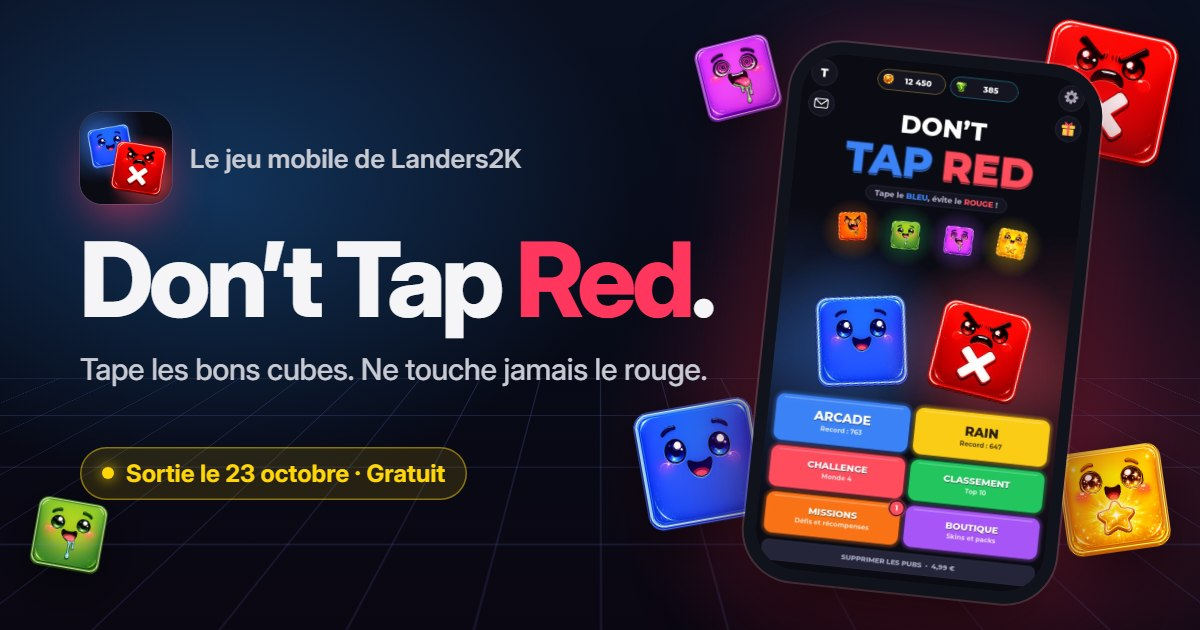
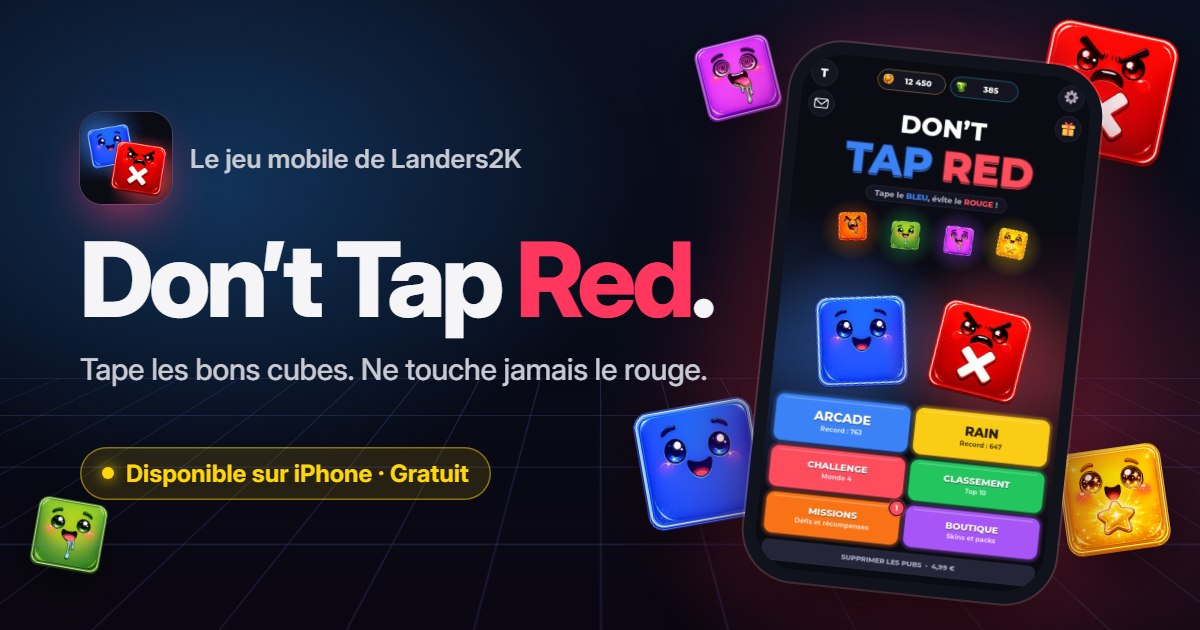
Don't Tap Red disponible sur iPhone : site, page du jeu, kit presse, images de partage et overlays à jour ; Android le 23 octobre (bouton Google Play grisé d'ici là) ; bandeau App Store de Safari

Changed region(s): [[0.0925, 0.6937, 0.4317, 0.8143]]

diff --git a/index.html b/index.html
@@ -9,6 +9,8 @@
   <link rel="icon" href="assets/favicon.svg" type="image/svg+xml">
   <link rel="apple-touch-icon" href="assets/apple-touch-icon.png">
   <link rel="manifest" href="site.webmanifest">
+  <!-- Bandeau « Ouvrir dans l’App Store » de Safari sur iPhone -->
+  <meta name="apple-itunes-app" content="app-id=6820198356">
   <meta name="apple-mobile-web-app-title" content="Landers2K">
   <!-- Aperçu quand le lien est partagé (Discord, X, WhatsApp…).
        Adresse officielle du site : https://www.landers2k.com/ -->
@@ -185,7 +187,7 @@
             <span class="link-txt"><b>Lootbar</b><small>Ma boutique Landers2K</small></span><span class="link-go" aria-hidden="true"></span></a></li>
           <li><a class="link-card" href="https://apps.apple.com/app/id6820198356" target="_blank" rel="noopener" style="--brand:#2997ff" data-tilt>
             <span class="link-ico"><img src="assets/img/dtr-icon.jpg" alt="" width="52" height="52"></span>
-            <span class="link-txt"><b>Don’t Tap Red · iPhone</b><small>Sortie le 23 octobre sur l’App Store</small></span><span class="link-go" aria-hidden="true"></span></a></li>
+            <span class="link-txt"><b>Don’t Tap Red · iPhone</b><small>Disponible sur l’App Store</small></span><span class="link-go" aria-hidden="true"></span></a></li>
           <li><a class="link-card" href="https://play.google.com/store/apps/details?id=com.landers2k.donttapred" target="_blank" rel="noopener" style="--brand:#30d158;--brand-ink:#000" data-tilt>
             <span class="link-ico"><img src="assets/img/dtr-icon.jpg" alt="" width="52" height="52"></span>
             <span class="link-txt"><b>Don’t Tap Red · Android</b><small>Sortie le 23 octobre sur Google Play</small></span><span class="link-go" aria-hidden="true"></span></a></li>
@@ -208,7 +210,7 @@
           <li class="fact" style="--brand:#2997ff"><b><span data-count="10">10</span>+ ans</b><span>de passion pour le gaming et le streaming</span></li>
           <li class="fact" style="--brand:#bf5af2"><b>Sept. 2025</b><span>le grand saut&nbsp;: le matériel et les ressources pour passer à la vitesse supérieure</span></li>
           <li class="fact" style="--brand:#ff375f"><b>3 univers</b><span>des vidéos, des lives et mes propres jeux vidéo</span></li>
-          <li class="fact" style="--brand:#30d158"><b>1<sup>er</sup> jeu</b><span>Don’t Tap Red, gratuit sur iOS et Android le 23 octobre</span></li>
+          <li class="fact" style="--brand:#30d158"><b>1<sup>er</sup> jeu</b><span>Don’t Tap Red, gratuit sur iPhone, et sur Android le 23 octobre</span></li>
         </ul>
         <div class="about-text">
           <p class="reveal">Passionné de gaming et de streaming depuis plus de <strong>10 ans</strong>, j’ai décidé de donner une nouvelle dimension à cette passion en <strong>septembre 2025</strong>, lorsque j’ai enfin pu investir dans le matériel et les ressources nécessaires pour concrétiser mes ambitions.</p>
@@ -380,13 +382,13 @@
           <div class="game-badge reveal">
             <img src="assets/img/dtr-icon.jpg" alt="" width="64" height="64">
             <span><b>Mon jeu mobile</b><small>Gratuit · iOS et Android</small></span>
-            <span class="release-pill" data-release><i aria-hidden="true"></i>Sortie le 23 octobre</span>
+            <span class="release-pill" data-release><i aria-hidden="true"></i>Disponible sur iPhone</span>
           </div>
           <h2 class="game-title" id="game-title" data-split>Don’t Tap Red.</h2>
           <p class="game-sub reveal">Un jeu de réflexes nerveux où chaque seconde compte. Les cubes bougent, accélèrent, se multiplient&nbsp;: garde ton sang-froid, enchaîne les bons cubes et surtout… ne touche jamais le rouge&nbsp;!</p>
           <!-- Compte à rebours jusqu'à la sortie, géré par script.js (caché sans JavaScript) -->
           <div class="countdown reveal" data-countdown>
-            <p class="cd-label">Sortie dans</p>
+            <p class="cd-label">Sortie sur Android dans</p>
             <div class="cd-units" role="timer" aria-label="Temps restant avant la sortie du jeu">
               <span class="cd-unit"><b data-cd="d">0</b><small>jours</small></span>
               <span class="cd-unit"><b data-cd="h">00</b><small>heures</small></span>
@@ -579,7 +581,7 @@
           <img src="assets/img/cube-red.webp" alt="" width="96" height="96">
         </div>
         <h2 class="section-title" id="dl-title" data-split>Prêt à relever le défi&nbsp;?</h2>
-        <p class="release-pill release-pill-lg reveal" data-release="countdown"><i aria-hidden="true"></i>Disponible le 23 octobre</p>
+        <p class="release-pill release-pill-lg reveal" data-release="countdown"><i aria-hidden="true"></i>Android le 23 octobre</p>
         <p class="download-sub reveal">Une seule règle&nbsp;: <span class="is-red">don’t tap red</span>. Gratuit sur iPhone et Android.</p>
         <div class="store-row reveal">
           <a class="store-btn store-btn-lg" href="https://apps.apple.com/app/id6820198356" target="_blank" rel="noopener" data-magnetic>

diff --git a/dont-tap-red/index.html b/dont-tap-red/index.html
@@ -10,6 +10,8 @@
   <link rel="icon" href="/assets/favicon.svg" type="image/svg+xml">
   <link rel="apple-touch-icon" href="/assets/apple-touch-icon.png">
   <link rel="manifest" href="/site.webmanifest">
+  <!-- Bandeau « Ouvrir dans l’App Store » de Safari sur iPhone -->
+  <meta name="apple-itunes-app" content="app-id=6820198356">
   <meta name="apple-mobile-web-app-title" content="Landers2K">
   <link rel="canonical" href="https://www.landers2k.com/dont-tap-red/">
   <link rel="alternate" hreflang="fr" href="https://www.landers2k.com/dont-tap-red/">
@@ -19,7 +21,7 @@
   <meta property="og:site_name" content="Landers2K">
   <meta property="og:locale" content="fr_FR">
   <meta property="og:url" content="https://www.landers2k.com/dont-tap-red/">
-  <meta property="og:title" content="Don’t Tap Red — sortie le 23 octobre">
+  <meta property="og:title" content="Don’t Tap Red — disponible sur iPhone">
   <meta property="og:description" content="Le jeu de réflexes gratuit de Landers2K sur iPhone et Android. Une seule règle : ne touche jamais le rouge.">
   <meta property="og:image" content="https://www.landers2k.com/assets/img/partage-dtr.jpg">
   <meta property="og:image:width" content="1200">
@@ -51,7 +53,7 @@
     "fr",
     "en"
   ],
-  "datePublished": "2026-10-23",
+  "datePublished": "2026-10-20",
   "offers": {
     "@type": "Offer",
     "price": "0",
@@ -156,13 +158,13 @@
           <div class="game-badge reveal">
             <img src="/assets/img/dtr-icon.jpg" alt="" width="64" height="64">
             <span><b>Mon jeu mobile</b><small>Gratuit · iOS et Android</small></span>
-            <span class="release-pill" data-release><i aria-hidden="true"></i>Sortie le 23 octobre</span>
+            <span class="release-pill" data-release><i aria-hidden="true"></i>Disponible sur iPhone</span>
           </div>
           <h1 class="game-title" id="game-title" data-split>Don’t Tap Red.</h1>
           <p class="game-sub reveal">Un jeu de réflexes nerveux où chaque seconde compte. Les cubes bougent, accélèrent, se multiplient&nbsp;: garde ton sang-froid, enchaîne les bons cubes et surtout… ne touche jamais le rouge&nbsp;!</p>
           <!-- Compte à rebours jusqu'à la sortie, géré par script.js (caché sans JavaScript) -->
           <div class="countdown reveal" data-countdown>
-            <p class="cd-label">Sortie dans</p>
+            <p class="cd-label">Sortie sur Android dans</p>
             <div class="cd-units" role="timer" aria-label="Temps restant avant la sortie du jeu">
               <span class="cd-unit"><b data-cd="d">0</b><small>jours</small></span>
               <span class="cd-unit"><b data-cd="h">00</b><small>heures</small></span>
@@ -441,7 +443,7 @@
           </details>
           <details class="faq-item">
             <summary>Quand sort le jeu&nbsp;?</summary>
-            <p>Le 23 octobre 2026 à 9&nbsp;h (heure de Paris), sur l’App Store et sur Google Play.</p>
+            <p>Il est déjà disponible sur iPhone, sur l’App Store. Sur Android, il arrive le 23 octobre 2026 à 9&nbsp;h (heure de Paris), sur Google Play.</p>
           </details>
           <details class="faq-item">
             <summary>Sur quels appareils et dans quelles langues&nbsp;?</summary>
@@ -475,7 +477,7 @@
           <img src="/assets/img/cube-red.webp" alt="" width="96" height="96">
         </div>
         <h2 class="section-title" id="dl-title" data-split>Prêt à relever le défi&nbsp;?</h2>
-        <p class="release-pill release-pill-lg reveal" data-release="countdown"><i aria-hidden="true"></i>Disponible le 23 octobre</p>
+        <p class="release-pill release-pill-lg reveal" data-release="countdown"><i aria-hidden="true"></i>Android le 23 octobre</p>
         <p class="download-sub reveal">Une seule règle&nbsp;: <span class="is-red">don’t tap red</span>. Gratuit sur iPhone et Android.</p>
         <div class="store-row reveal">
           <a class="store-btn store-btn-lg" href="https://apps.apple.com/app/id6820198356" target="_blank" rel="noopener" data-magnetic>

diff --git a/dont-tap-red/en/index.html b/dont-tap-red/en/index.html
@@ -10,6 +10,8 @@
   <link rel="icon" href="/assets/favicon.svg" type="image/svg+xml">
   <link rel="apple-touch-icon" href="/assets/apple-touch-icon.png">
   <link rel="manifest" href="/site.webmanifest">
+  <!-- Bandeau « Ouvrir dans l’App Store » de Safari sur iPhone -->
+  <meta name="apple-itunes-app" content="app-id=6820198356">
   <meta name="apple-mobile-web-app-title" content="Landers2K">
   <link rel="canonical" href="https://www.landers2k.com/dont-tap-red/en/">
   <link rel="alternate" hreflang="fr" href="https://www.landers2k.com/dont-tap-red/">
@@ -19,7 +21,7 @@
   <meta property="og:site_name" content="Landers2K">
   <meta property="og:locale" content="en_US">
   <meta property="og:url" content="https://www.landers2k.com/dont-tap-red/en/">
-  <meta property="og:title" content="Don’t Tap Red — out October 23">
+  <meta property="og:title" content="Don’t Tap Red — out now on iPhone">
   <meta property="og:description" content="The free reflex game by Landers2K for iPhone and Android. One single rule: never touch the red one.">
   <meta property="og:image" content="https://www.landers2k.com/assets/img/partage-dtr-en.jpg">
   <meta property="og:image:width" content="1200">
@@ -51,7 +53,7 @@
     "en",
     "fr"
   ],
-  "datePublished": "2026-10-23",
+  "datePublished": "2026-10-20",
   "offers": {
     "@type": "Offer",
     "price": "0",
@@ -148,13 +150,13 @@
           <div class="game-badge reveal">
             <img src="/assets/img/dtr-icon.jpg" alt="" width="64" height="64">
             <span><b>My mobile game</b><small>Free · iOS and Android</small></span>
-            <span class="release-pill" data-release><i aria-hidden="true"></i>Out October 23</span>
+            <span class="release-pill" data-release><i aria-hidden="true"></i>Out now on iPhone</span>
           </div>
           <h1 class="game-title" id="game-title" data-split>Don’t Tap Red.</h1>
           <p class="game-sub reveal">A fast-paced reflex game where every second counts. Cubes move, speed up and multiply: keep your cool, chain the right cubes and above all… never touch the red one!</p>
           <!-- Compte à rebours jusqu'à la sortie, géré par script.js (caché sans JavaScript) -->
           <div class="countdown reveal" data-countdown>
-            <p class="cd-label">Out in</p>
+            <p class="cd-label">Out on Android in</p>
             <div class="cd-units" role="timer" aria-label="Time left before the game comes out">
               <span class="cd-unit"><b data-cd="d">0</b><small>days</small></span>
               <span class="cd-unit"><b data-cd="h">00</b><small>hours</small></span>
@@ -433,7 +435,7 @@
           </details>
           <details class="faq-item">
             <summary>When does the game come out?</summary>
-            <p>On October 23, 2026 at 9&nbsp;a.m. Paris time (7&nbsp;a.m. UTC), on the App Store and Google Play.</p>
+            <p>It’s already out on iPhone, on the App Store. On Android, it arrives on October 23, 2026 at 9&nbsp;a.m. Paris time (7&nbsp;a.m. UTC), on Google Play.</p>
           </details>
           <details class="faq-item">
             <summary>Which devices and languages?</summary>
@@ -467,7 +469,7 @@
           <img src="/assets/img/cube-red.webp" alt="" width="96" height="96">
         </div>
         <h2 class="section-title" id="dl-title" data-split>Ready for the challenge?</h2>
-        <p class="release-pill release-pill-lg reveal" data-release="countdown"><i aria-hidden="true"></i>Available October 23</p>
+        <p class="release-pill release-pill-lg reveal" data-release="countdown"><i aria-hidden="true"></i>Android on October 23</p>
         <p class="download-sub reveal">One single rule: <span class="is-red">don’t tap red</span>. Free on iPhone and Android.</p>
         <div class="store-row reveal">
           <a class="store-btn store-btn-lg" href="https://apps.apple.com/app/id6820198356" target="_blank" rel="noopener" data-magnetic>

diff --git a/script.js b/script.js
@@ -910,15 +910,22 @@ const CONFIG = {
   });
 
   /* ------------------------------------------------------------------------
-     Sortie de Don't Tap Red : compte à rebours jusqu'à l'heure de sortie, puis
-     « Disponible maintenant » (avec un message « grand jour » pendant 24 h)
+     Sortie de Don't Tap Red : déjà disponible sur iPhone (20 octobre). Compte à
+     rebours jusqu'à la sortie Android, puis « Disponible maintenant » (avec un
+     message « grand jour » pendant 24 h). D'ici là, le bouton Google Play est grisé.
      ------------------------------------------------------------------------ */
   (function release() {
-    const RELEASE = Date.parse('2026-10-23T09:00:00+02:00'); // 23 octobre à 9 h, heure de Paris
+    const RELEASE = Date.parse('2026-10-23T09:00:00+02:00'); // sortie Android : 23 octobre à 9 h, heure de Paris
     const DAY = 864e5;
     const boxes = $$('[data-countdown]');
     const pills = $$('[data-release]');
-    if (!boxes.length && !pills.length) return;
+    const playButtons = $$('.store-btn[href*="play.google.com"]');
+    if (!boxes.length && !pills.length && !playButtons.length) return;
+    const soon = Date.now() < RELEASE;
+    playButtons.forEach(a => {
+      a.classList.toggle('is-soon', soon);
+      if (soon) { a.dataset.soon = tr('23 oct.', 'Oct 23'); a.setAttribute('aria-disabled', 'true'); a.tabIndex = -1; }
+    });
 
     const pad = n => String(n).padStart(2, '0');
     const setPills = text => pills.forEach(p => { p.lastChild.nodeValue = text; });
@@ -945,13 +952,13 @@ const CONFIG = {
           setUnit(box, 's', pad(t % 60), tr('seconde', 'second'), tr('secondes', 'seconds'));
         });
         pills.filter(p => p.dataset.release === 'countdown')
-          .forEach(p => { p.lastChild.nodeValue = tr(`Disponible dans ${d} j ${pad(h)} h ${pad(m)} min`, `Out in ${d}d ${pad(h)}h ${pad(m)}m`); });
+          .forEach(p => { p.lastChild.nodeValue = tr(`Android dans ${d} j ${pad(h)} h ${pad(m)} min`, `Android in ${d}d ${pad(h)}h ${pad(m)}m`); });
         return;
       }
       clearInterval(timer);
       const launchDay = left > -DAY;
       boxes.forEach(box => {
-        box.innerHTML = `<p class="cd-done">${tr('C’est le grand jour&nbsp;: Don’t Tap Red est disponible&nbsp;!', 'It’s launch day: Don’t Tap Red is out now!')}</p>`;
+        box.innerHTML = `<p class="cd-done">${tr('C’est le grand jour&nbsp;: Don’t Tap Red arrive sur Android&nbsp;!', 'Launch day: Don’t Tap Red is out on Android!')}</p>`;
         box.hidden = !launchDay;
       });
       setPills(tr('Disponible maintenant', 'Available now'));

diff --git a/overlay/index.html b/overlay/index.html
@@ -71,18 +71,18 @@
     </div>
     <div class="msgs full">
       <div class="msg"><small>Tous mes liens, mon Discord et mon jeu</small><b><span class="grad">landers2k.com</span></b></div>
-      <div class="msg"><small>Mon jeu mobile · iPhone et Android</small><b>Don’t Tap <span class="red">Red</span> · <span class="num" data-left>sortie le 23 octobre</span></b></div>
+      <div class="msg"><small>Mon jeu mobile · dispo sur iPhone</small><b>Don’t Tap <span class="red">Red</span> · <span class="num" data-left>Android le 23 octobre</span></b></div>
       <div class="msg"><small>Chasse au trésor</small><b>🎁 Un <span class="gold">code cadeau</span> est caché sur landers2k.com</b></div>
     </div>
     <div class="msgs short">
       <div class="msg"><small>Tous mes liens</small><b><span class="grad">landers2k.com</span></b></div>
-      <div class="msg"><small>Don’t Tap Red · sortie dans</small><b class="num" data-left-short>3 j 00:00:00</b></div>
+      <div class="msg"><small>Don’t Tap Red · sur Android dans</small><b class="num" data-left-short>3 j 00:00:00</b></div>
       <div class="msg"><small>🎁 Code cadeau caché sur</small><b><span class="gold">landers2k.com</span></b></div>
     </div>
   </div>
 
   <script>
-    // Messages qui défilent toutes les 8 secondes, et compte à rebours jusqu'à la sortie du jeu
+    // Messages qui défilent toutes les 8 secondes, et compte à rebours jusqu'à la sortie Android (déjà sur iPhone)
     const RELEASE = Date.parse('2026-10-23T09:00:00+02:00');
     const compact = new URLSearchParams(location.search).has('compact');
     document.documentElement.classList.toggle('compact', compact);
@@ -104,14 +104,14 @@
     const tick = () => {
       const t = Math.floor((RELEASE - Date.now()) / 1000);
       if (t <= 0) {
-        left.textContent = 'disponible maintenant !';
+        left.textContent = 'dispo sur iPhone et Android !';
         leftShort.textContent = 'dispo maintenant !';
         leftShort.previousElementSibling.textContent = 'Don’t Tap Red · iPhone et Android';
         return;
       }
       const d = Math.floor(t / 86400);
       const time = `${d ? d + ' j ' : ''}${pad(Math.floor(t / 3600) % 24)}:${pad(Math.floor(t / 60) % 60)}:${pad(t % 60)}`;
-      left.textContent = `sortie dans ${time}`;
+      left.textContent = `Android dans ${time}`;
       leftShort.textContent = time;
     };
     tick();

diff --git a/overlay/scenes.js b/overlay/scenes.js
@@ -8,7 +8,7 @@
 
   const W = 2560;
   const H = 1440;
-  const RELEASE = Date.parse('2026-10-23T09:00:00+02:00'); // sortie de Don't Tap Red, heure de Paris
+  const RELEASE = Date.parse('2026-10-23T09:00:00+02:00'); // sortie Android de Don't Tap Red (déjà sur iPhone), heure de Paris
   const params = new URLSearchParams(location.search);
   const $ = s => document.querySelector(s);
   const stage = $('.stage');
@@ -41,7 +41,7 @@
   const bottom = $('[data-bottom]');
   if (bottom) {
     bottom.innerHTML = '<div class="pill">🌐 <span class="grad">landers2k.com</span></div>'
-      + '<div class="pill"><img src="/assets/img/dtr-icon.jpg" alt="">Don’t Tap <span class="red">Red</span>&nbsp;·&nbsp;<span data-release>sortie le 23 octobre</span></div>';
+      + '<div class="pill"><img src="/assets/img/dtr-icon.jpg" alt="">Don’t Tap <span class="red">Red</span>&nbsp;·&nbsp;<span data-release>Android le 23 octobre</span></div>';
   }
 
   /* ---------------------------------------------------------------- Chronos */
@@ -57,7 +57,7 @@
     if (release) {
       const t = Math.floor((RELEASE - now) / 1000);
       release.innerHTML = t > 0
-        ? `sortie dans <span class="num">${Math.floor(t / 86400) ? Math.floor(t / 86400) + ' j ' : ''}${pad(Math.floor(t / 3600) % 24)}:${pad(Math.floor(t / 60) % 60)}:${pad(t % 60)}</span>`
+        ? `dispo sur iPhone · Android dans <span class="num">${Math.floor(t / 86400) ? Math.floor(t / 86400) + ' j ' : ''}${pad(Math.floor(t / 3600) % 24)}:${pad(Math.floor(t / 60) % 60)}:${pad(t % 60)}</span>`
         : 'disponible sur iPhone et Android';
     }
     if (start && minutes) {

diff --git a/dont-tap-red/presse/index.html b/dont-tap-red/presse/index.html
@@ -10,6 +10,8 @@
   <link rel="icon" href="/assets/favicon.svg" type="image/svg+xml">
   <link rel="apple-touch-icon" href="/assets/apple-touch-icon.png">
   <link rel="manifest" href="/site.webmanifest">
+  <!-- Bandeau « Ouvrir dans l’App Store » de Safari sur iPhone -->
+  <meta name="apple-itunes-app" content="app-id=6820198356">
   <meta name="apple-mobile-web-app-title" content="Landers2K">
   <link rel="canonical" href="https://www.landers2k.com/dont-tap-red/presse/">
   <meta property="og:type" content="website">
@@ -142,7 +144,7 @@
         <dl class="press-facts reveal">
             <div class="press-fact"><dt>Jeu</dt><dd>Don’t Tap Red</dd></div>
             <div class="press-fact"><dt>Développeur</dt><dd>Landers2K, développeur indépendant (France)</dd></div>
-            <div class="press-fact"><dt>Sortie</dt><dd>23 octobre 2026 à 9 h (heure de Paris)</dd></div>
+            <div class="press-fact"><dt>Sortie</dt><dd>20 octobre 2026 sur iPhone · 23 octobre 2026 sur Android</dd></div>
             <div class="press-fact"><dt>Plateformes</dt><dd>iPhone (App Store) et Android (Google Play)</dd></div>
             <div class="press-fact"><dt>Prix</dt><dd>Gratuit, achats intégrés facultatifs</dd></div>
             <div class="press-fact"><dt>Langues</dt><dd>Français et anglais</dd></div>

diff --git a/styles.css b/styles.css
@@ -1464,6 +1464,10 @@ html:not(.js) .countdown { display: none; }
   .cd-unit { flex: 1; min-width: 0; padding: 12px 4px 10px; border-radius: 16px; }
   .cd-unit small { font-size: 11px; }
 }
+/* Google Play avant la sortie Android : bouton grisé avec la date */
+.store-btn.is-soon { position: relative; pointer-events: none; }
+.store-btn.is-soon > * { opacity: .45; }
+.store-btn.is-soon::after { content: attr(data-soon); position: absolute; top: -10px; right: -10px; padding: 3px 9px; border-radius: 99px; background: #ffd60a; color: #000; font-size: 11px; font-weight: 800; letter-spacing: .02em; }
 .store-btn-lg { min-width: 210px; padding: 12px 24px 12px 20px; border-radius: 16px; }
 .store-btn-lg svg { width: 30px; height: 30px; }
 .store-btn-lg b { font-size: 22px; }

diff --git a/overlay/chat/index.html b/overlay/chat/index.html
@@ -9,7 +9,7 @@
   <link rel="preconnect" href="https://fonts.googleapis.com">
   <link rel="preconnect" href="https://fonts.gstatic.com" crossorigin>
   <link rel="stylesheet" href="https://fonts.googleapis.com/css2?family=Inter:opsz,wght@14..32,500..900&display=swap">
-  <link rel="stylesheet" href="/overlay/scenes.css?v=5">
+  <link rel="stylesheet" href="/overlay/scenes.css?v=6">
 </head>
 <body class="full chat-scene">
   <div class="stage">
@@ -34,6 +34,6 @@
     <p class="side-label">En discussion</p>
     <div class="socials" data-socials></div>
   </div>
-  <script src="/overlay/scenes.js?v=5"></script>
+  <script src="/overlay/scenes.js?v=6"></script>
 </body>
 </html>

diff --git a/overlay/live/index.html b/overlay/live/index.html
@@ -6,7 +6,7 @@
   <!-- Scène OBS (source « Navigateur » en 2560 × 1440, fond transparent), à placer juste au-dessus de « Camera 2 » dans LIVE :
        cadre autour de la webcam (1871, 37 · 652 × 367 : tout en haut à droite, 20 px de marge) et bandeau des liens juste en dessous. Pas de cubes : le jeu reste dégagé. -->
   <meta name="robots" content="noindex">
-  <link rel="stylesheet" href="/overlay/scenes.css?v=5">
+  <link rel="stylesheet" href="/overlay/scenes.css?v=6">
   <link rel="preconnect" href="https://fonts.googleapis.com">
   <link rel="stylesheet" href="https://fonts.googleapis.com/css2?family=Inter:opsz,wght@14..32,600..800&display=swap">
   <style>

diff --git a/overlay/alternative/index.html b/overlay/alternative/index.html
@@ -9,7 +9,7 @@
   <link rel="preconnect" href="https://fonts.googleapis.com">
   <link rel="preconnect" href="https://fonts.gstatic.com" crossorigin>
   <link rel="stylesheet" href="https://fonts.googleapis.com/css2?family=Inter:opsz,wght@14..32,500..900&display=swap">
-  <link rel="stylesheet" href="/overlay/scenes.css?v=5">
+  <link rel="stylesheet" href="/overlay/scenes.css?v=6">
 </head>
 <body class="full chat-scene">
   <div class="stage">
@@ -34,6 +34,6 @@
 
     <div class="socials" data-socials></div>
   </div>
-  <script src="/overlay/scenes.js?v=5"></script>
+  <script src="/overlay/scenes.js?v=6"></script>
 </body>
 </html>

diff --git a/overlay/commence/index.html b/overlay/commence/index.html
@@ -8,7 +8,7 @@
   <link rel="preconnect" href="https://fonts.googleapis.com">
   <link rel="preconnect" href="https://fonts.gstatic.com" crossorigin>
   <link rel="stylesheet" href="https://fonts.googleapis.com/css2?family=Inter:opsz,wght@14..32,500..900&display=swap">
-  <link rel="stylesheet" href="/overlay/scenes.css?v=5">
+  <link rel="stylesheet" href="/overlay/scenes.css?v=6">
 </head>
 <body class="full">
   <div class="stage">
@@ -23,6 +23,6 @@
     </div>
     <div class="bottom" data-bottom></div>
   </div>
-  <script src="/overlay/scenes.js?v=5"></script>
+  <script src="/overlay/scenes.js?v=6"></script>
 </body>
 </html>
